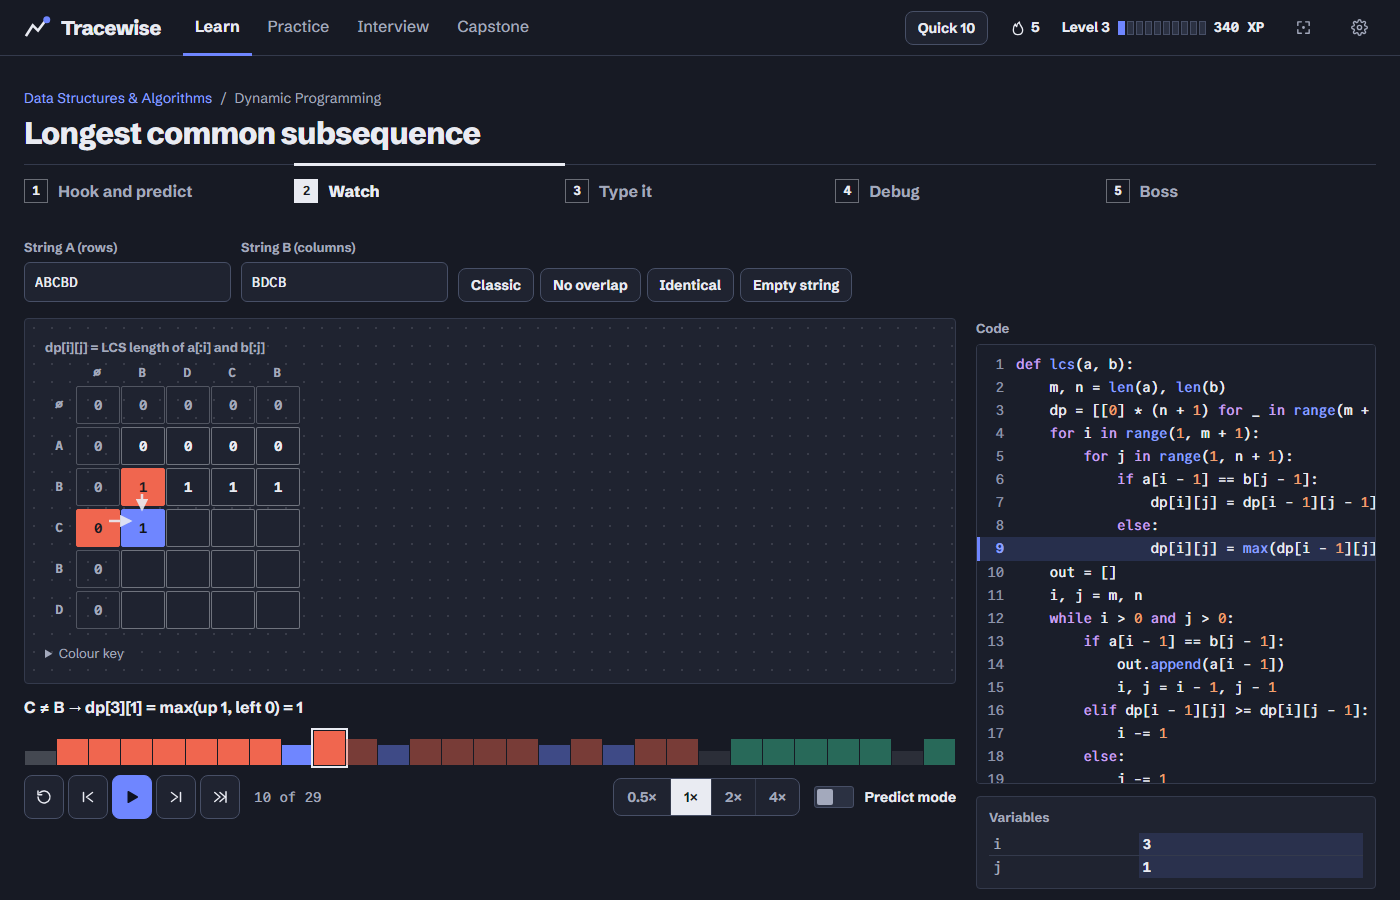
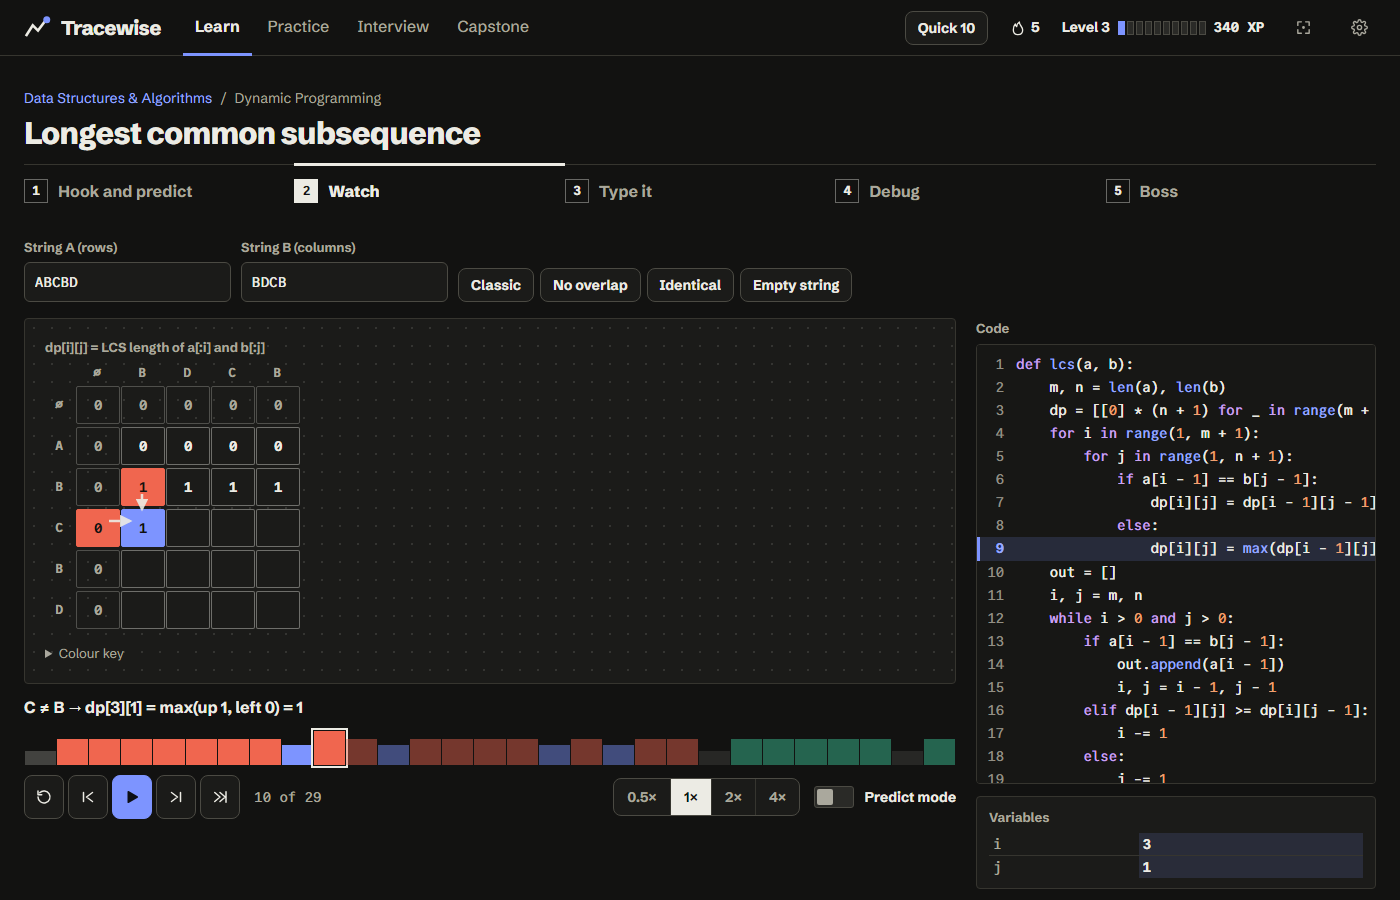
Dark theme: warm charcoal palette; bump service worker cache

diff --git a/src/styles/global.css b/src/styles/global.css
@@ -94,39 +94,39 @@
 }
 
 :root[data-theme='dark'] {
-  --paper: #171a24;
-  --surface: #1f2330;
-  --ink: #e9ebf2;
-  --ink-muted: #a3a9bc;
-  --rule: #343a4c;
+  --paper: #121211;
+  --surface: #1b1b19;
+  --ink: #ecebe4;
+  --ink-muted: #aaa89d;
+  --rule: #36352f;
 
-  --cobalt: #6f86ff;
-  --on-cobalt: #0f1220;
+  --cobalt: #7d94ff;
+  --on-cobalt: #0e0f14;
   --mustard: #f5c04a;
-  --on-mustard: #171a24;
+  --on-mustard: #121211;
   --tomato: #f0664f;
-  --on-tomato: #171a24;
+  --on-tomato: #121211;
   --mint: #3dc99c;
-  --on-mint: #171a24;
-  --cobalt-t: #8da0ff;
+  --on-mint: #121211;
+  --cobalt-t: #98a9ff;
   --mustard-t: #f5c04a;
   --tomato-t: #f58a77;
   --mint-t: #4fd3a8;
 
-  --bg-2: #12151e;
-  --panel-2: #252a39;
-  --panel-3: #2b3142;
-  --line-2: #474f66;
-  --text-3: #8d94a8;
+  --bg-2: #0d0d0c;
+  --panel-2: #232321;
+  --panel-3: #2a2a27;
+  --line-2: #4b4a43;
+  --text-3: #928f84;
 
-  --code-bg: #1a1e2a;
+  --code-bg: #171715;
   --code-kw: #c9a2f0;
   --code-str: #a6d98b;
   --code-num: #f0a070;
-  --code-com: #7d869c;
-  --code-fn: #8da0ff;
-  --code-line: rgba(111, 134, 255, 0.16);
-  --dot: rgba(233, 235, 242, 0.13);
+  --code-com: #86847a;
+  --code-fn: #98a9ff;
+  --code-line: rgba(125, 148, 255, 0.16);
+  --dot: rgba(236, 235, 228, 0.12);
   --blend: normal;
 
   color-scheme: dark;

diff --git a/public/sw.js b/public/sw.js
@@ -1,7 +1,7 @@
 // Minimal offline service worker.
 // - Navigations: network first, fall back to the cached app shell.
 // - Same-origin assets (hashed JS/CSS, Pyodide runtime): cache first, filled on first use.
-const CACHE = 'tracewise-v1';
+const CACHE = 'tracewise-v2';
 
 self.addEventListener('install', (event) => {
   event.waitUntil(caches.open(CACHE).then((c) => c.addAll(['./', './index.html', './favicon.svg', './manifest.webmanifest'])).then(() => self.skipWaiting()));
